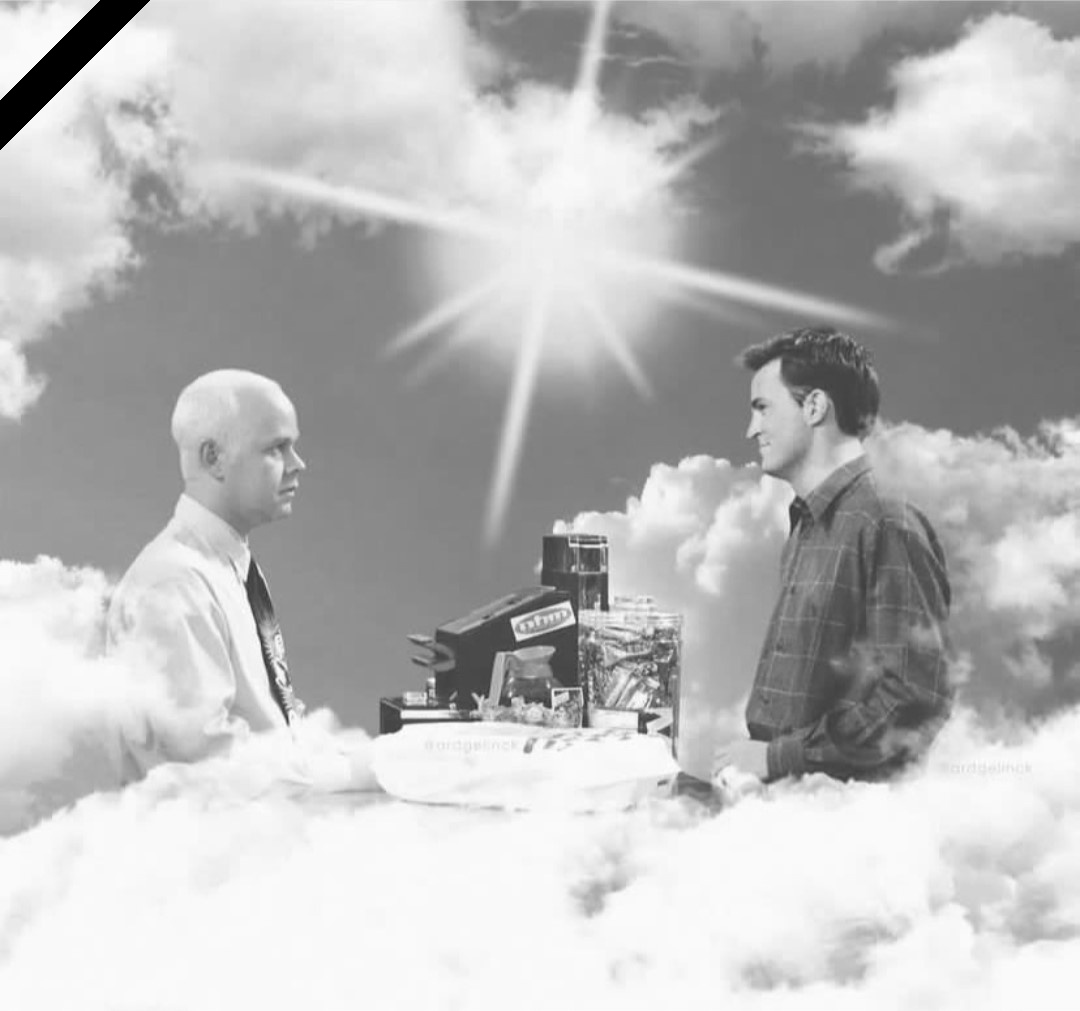
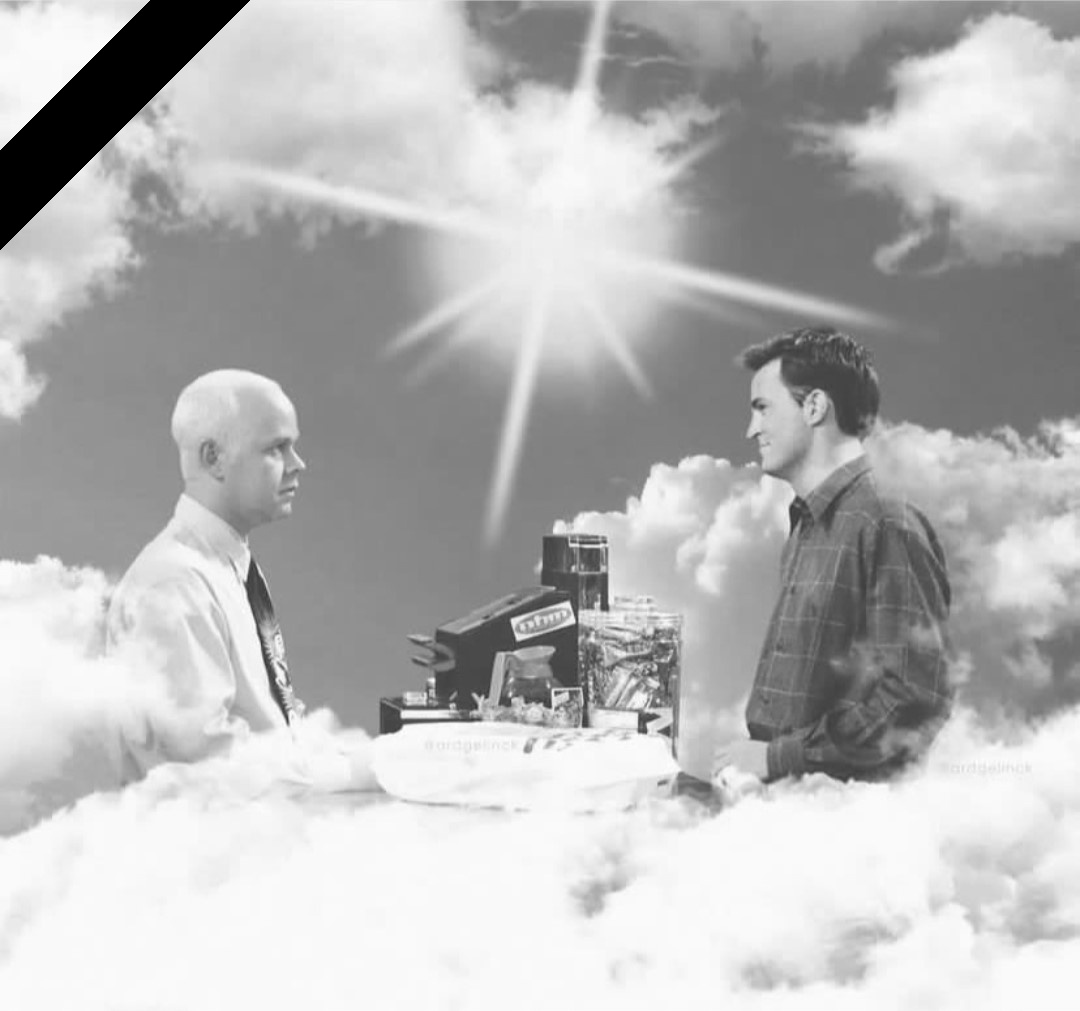
assignment26

Changed region(s): [[0.0, 0.0, 0.2444, 0.2453]]

diff --git a/6.py b/6.py
@@ -3,16 +3,16 @@ import cv2
 
 image_in = cv2.imread ("6_input.jpg")
 black_image = cv2.cvtColor (image_in , cv2.COLOR_BGR2GRAY)
-begin = 100
-end = 150
-for row in range (100) :
+begin = 150
+end = 250
+for row in range (150) :
     for colomn in range (begin , end) :
         black_image[row][colomn] = 0
     begin -= 1
     end -= 1
 
-triangle = 50
-for row in range (100 , 150) :
+triangle = 100
+for row in range (150 , 250) :
     for colomn in range (0 , triangle ) :
         black_image[row][colomn] = 0
     triangle -= 1
